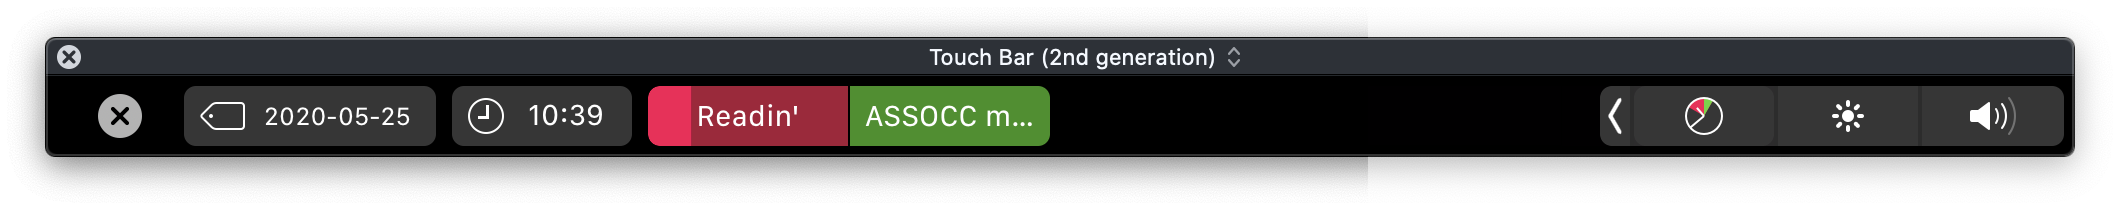
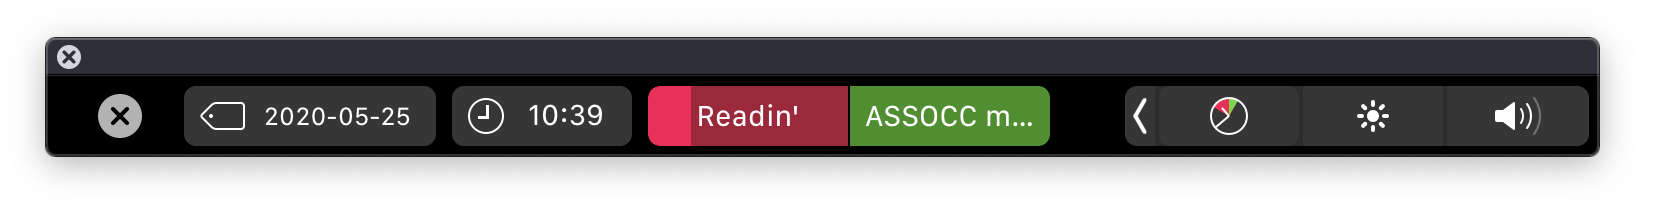
Shrink touchbar screenshot a bit

diff --git a/README.md b/README.md
@@ -1,7 +1,7 @@
 # Analogue Clock Bar
 Get an analogue clock right on the sweetest spot of the MacBook, on the touch bar. And optionally add little annotations showing upcoming calendar events.
 
-<img src="https://github.com/jelmervdl/Clock-Bar/raw/master/screenshot.png" width="1060" height="105" alt="Screenshot of Touch Bar with clock and events">
+<img src="https://github.com/jelmervdl/Clock-Bar/raw/master/screenshot.png" width="830" height="105" alt="Screenshot of Touch Bar with clock and events">
 
 <img src="https://github.com/jelmervdl/Clock-Bar/raw/master/screenshot-prefs.png" width="512" height="657" alt="Screenshot of Preferences window">
 
